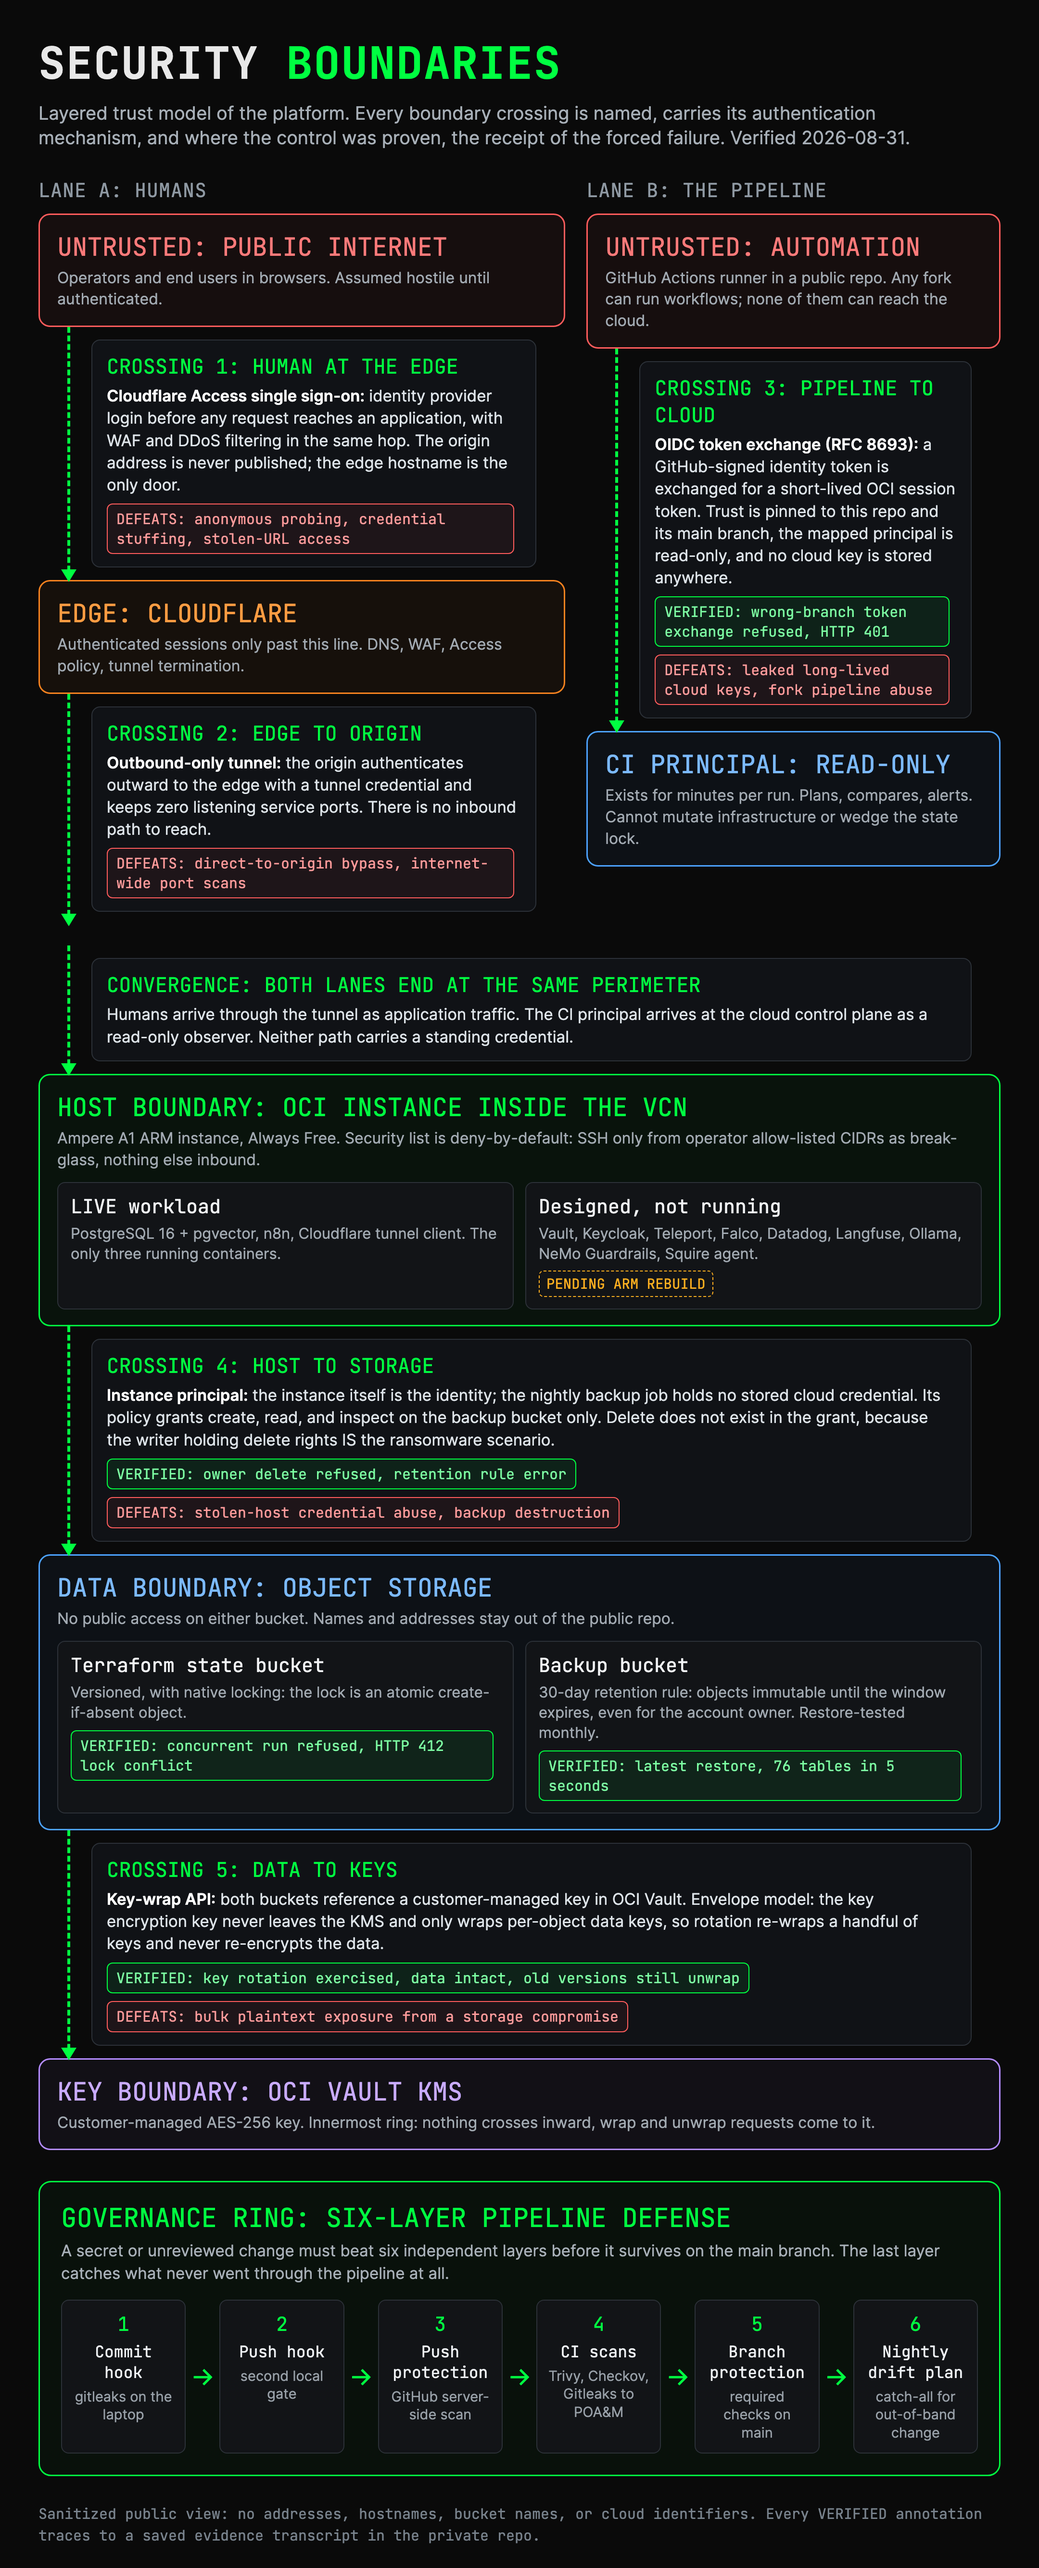
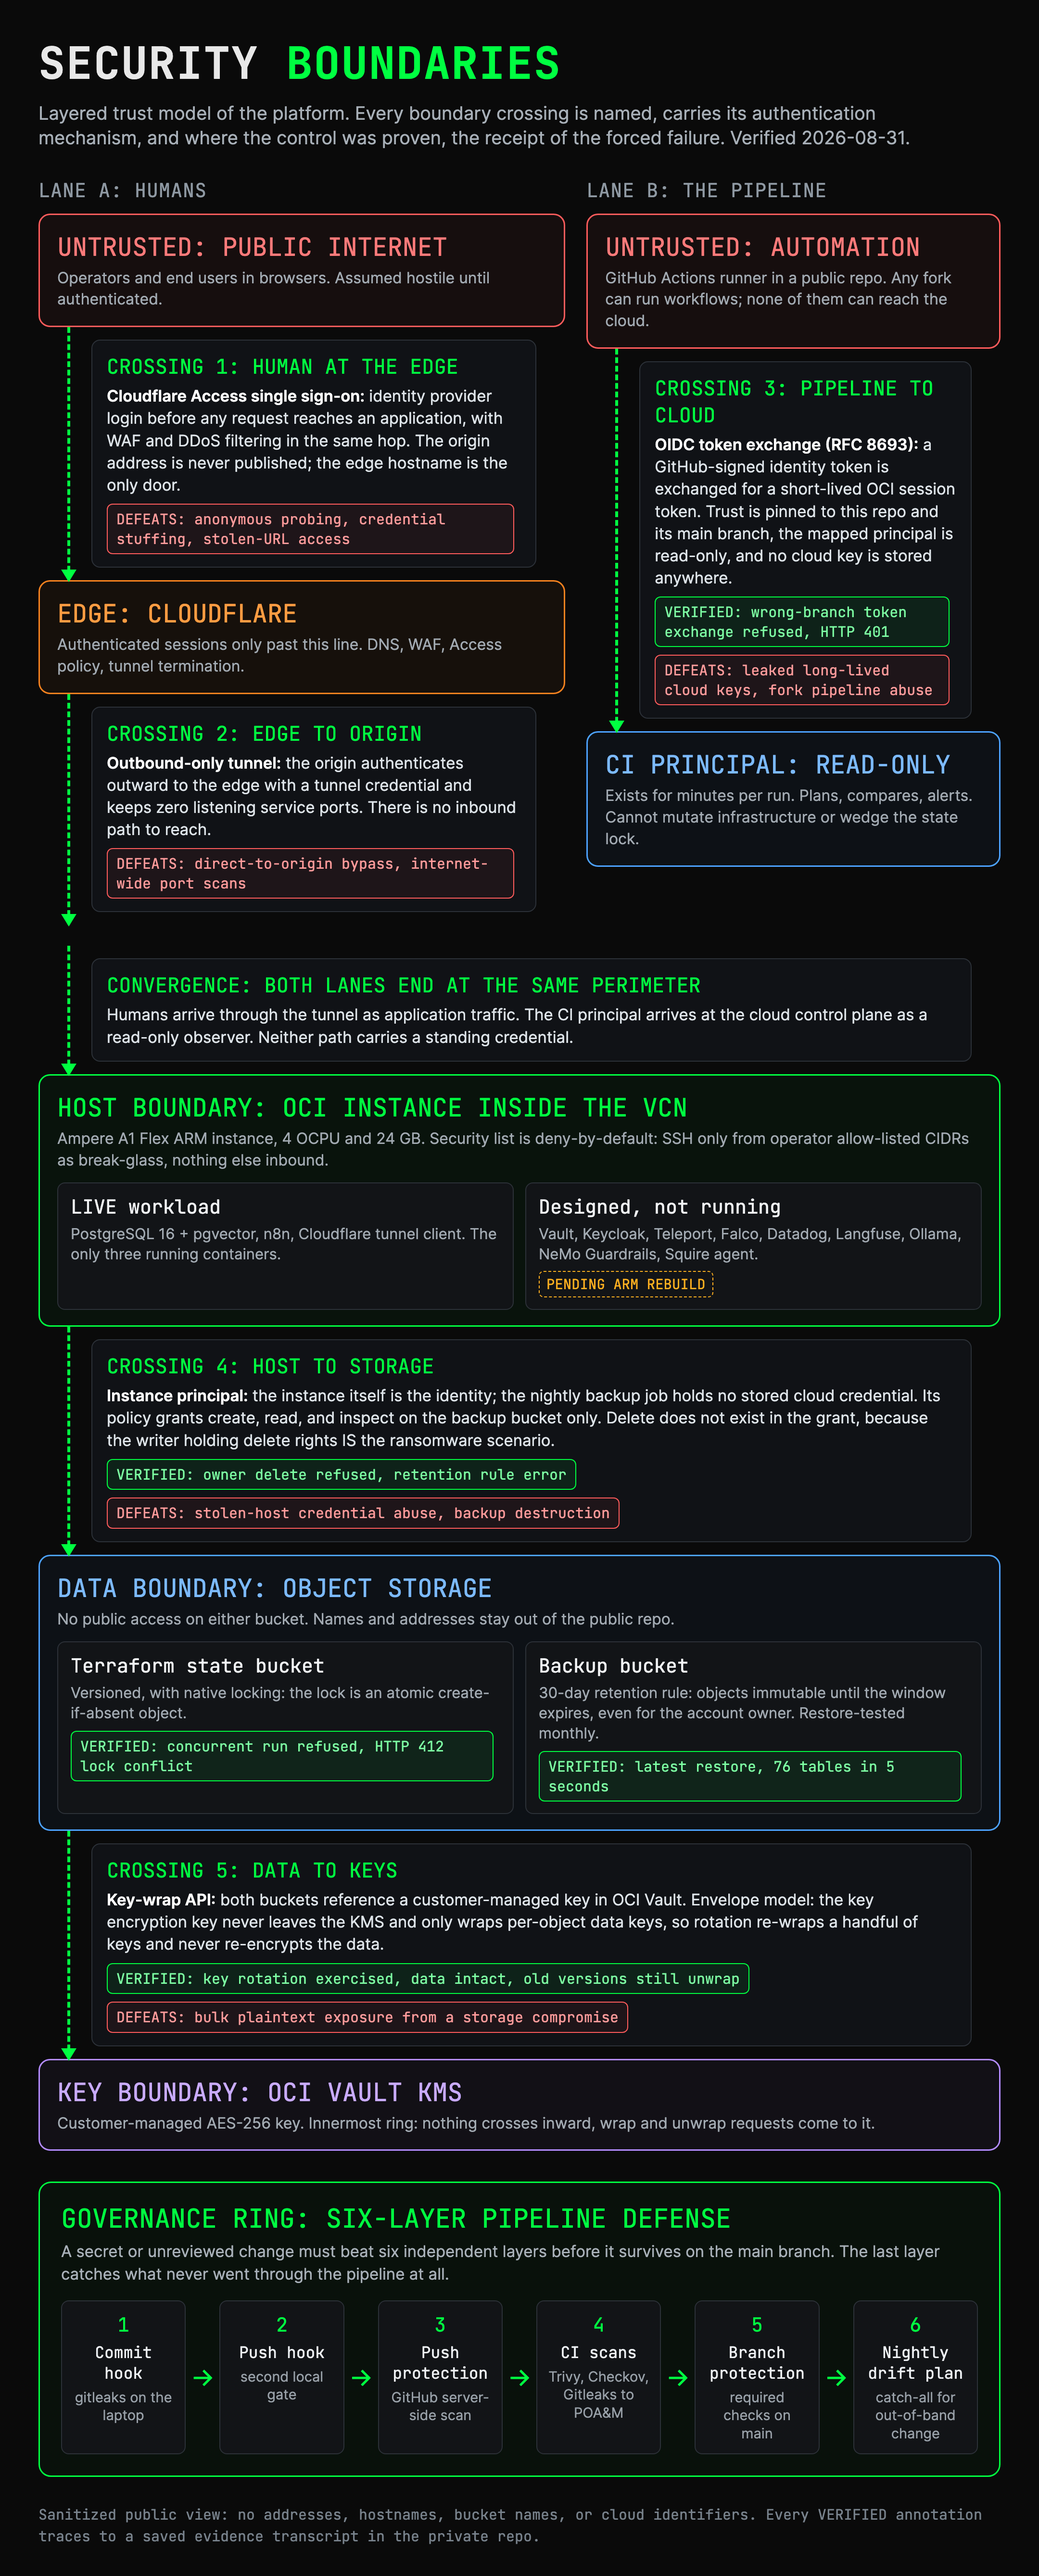
refactor(21-07): generators, generated artifacts, and the diagram HTML
- build_oscal.py drops the phrase at the source; the three OSCAL outputs and
  their validation summary are regenerated by running the generator, not patched
- squire-threats.stix.json hand edited: it has no tracked generator, recorded
  as a rewrite_later finding
- grc_indexer.py comment lines name the rate cap instead of the account tier
  (comment-only diff, verified)
- the three diagram sources name the Ampere A1 shape and scale; their tracked
  PNGs are re-rendered through render.mjs and Playwright

diff --git a/docs/grc/diagrams/stack_overview_hero.html b/docs/grc/diagrams/stack_overview_hero.html
@@ -15,9 +15,9 @@
   .thesis b { color:#00FF41; font-weight:600; }
 
   .hero-head { display:flex; align-items:flex-start; justify-content:space-between; }
-  .cost { flex:none; text-align:center; border:4px solid #00FF41; border-radius:24px; padding:34px 44px; margin-left:60px; }
-  .cost .amt { font-family:'JetBrains Mono','SF Mono',Menlo,monospace; font-size:96px; color:#00FF41; font-weight:700; }
-  .cost .lbl { font-family:'JetBrains Mono','SF Mono',Menlo,monospace; font-size:32px; color:#a8b0b8; margin-top:10px; line-height:1.35; }
+  .shape { flex:none; text-align:center; border:4px solid #00FF41; border-radius:24px; padding:34px 44px; margin-left:60px; }
+  .shape .amt { font-family:'JetBrains Mono','SF Mono',Menlo,monospace; font-size:96px; color:#00FF41; font-weight:700; }
+  .shape .lbl { font-family:'JetBrains Mono','SF Mono',Menlo,monospace; font-size:32px; color:#a8b0b8; margin-top:10px; line-height:1.35; }
 
   .cards { display:grid; grid-template-columns:1fr 1fr; gap:40px; margin-top:70px; }
   .card { border-radius:26px; padding:38px 42px; background:#101216; border:3px solid #2c3138; }
@@ -58,9 +58,9 @@
     <h1>THE PLATFORM <span class="green">AT A GLANCE</span></h1>
     <div class="thesis">Two clouds in production, a third gated and scheduled: Oracle runs the workloads, Cloudflare runs the zero trust edge, AWS takes custody of evidence and break-glass. Keyless pipeline, immutable backups, self-auditing infrastructure. <b>Every control verified by making it fail.</b></div>
   </div>
-  <div class="cost">
-    <div class="amt">$0/MO</div>
-    <div class="lbl">ORACLE CLOUD<br>ALWAYS FREE ARM</div>
+  <div class="shape">
+    <div class="amt">24 GB</div>
+    <div class="lbl">ORACLE CLOUD<br>AMPERE A1 ARM</div>
   </div>
 </div>
 

diff --git a/docs/grc/diagrams/network_topology.html b/docs/grc/diagrams/network_topology.html
@@ -77,7 +77,7 @@
 </style>
 
 <h1>NETWORK <span class="green">TOPOLOGY</span></h1>
-<div class="subtitle">The platform: Oracle Cloud Always Free ARM behind a Cloudflare zero trust edge. Two entry paths, two federation boundaries, no inbound service ports. Verified 2026-08-31.</div>
+<div class="subtitle">The platform: one Oracle Cloud Ampere A1 ARM instance behind a Cloudflare zero trust edge. Two entry paths, two federation boundaries, no inbound service ports. Verified 2026-08-31.</div>
 
 <div class="legend">
   <div class="lg"><span class="sw live"></span>LIVE, SERVING TRAFFIC</div>
@@ -164,7 +164,7 @@
 <!-- Row 5: the OCI tenancy -->
 <div class="zone z-green">
   <div class="zlabel">ZONE: ORACLE CLOUD TENANCY</div>
-  <div class="oci-badge">ALWAYS FREE ARM: $0/MONTH</div>
+  <div class="oci-badge">AMPERE A1 ARM: 4 OCPU / 24 GB</div>
   <div class="zsub">One compartment, one VCN, one instance, two encrypted buckets</div>
 
   <div class="grid2">

diff --git a/docs/grc/diagrams/security_boundaries.html b/docs/grc/diagrams/security_boundaries.html
@@ -126,7 +126,7 @@
 
 <div class="band b-green" style="margin-top:0;">
   <div class="blabel">HOST BOUNDARY: OCI INSTANCE INSIDE THE VCN</div>
-  <div class="bsub">Ampere A1 ARM instance, Always Free. Security list is deny-by-default: SSH only from operator allow-listed CIDRs as break-glass, nothing else inbound.</div>
+  <div class="bsub">Ampere A1 Flex ARM instance, 4 OCPU and 24 GB. Security list is deny-by-default: SSH only from operator allow-listed CIDRs as break-glass, nothing else inbound.</div>
   <div class="inner">
     <div class="icard">
       <div class="ilabel">LIVE workload</div>

diff --git a/scripts/grc/build_oscal.py b/scripts/grc/build_oscal.py
@@ -384,7 +384,7 @@ POAM_ITEMS = [
     ("POAM-P17-04", "Non Luhn CC pass through is expected. Follow up confirmed Luhn valid CC is blocked. Regression test added.", "low", "closed", ["si-10"]),
     ("POAM-P17-05", "Benign framing severity flip attempt. Graph classifier held. Regression test added.", "moderate", "closed", ["si-4"]),
     ("POAM-P17-06", "Drill framing severity flip attempt. Graph classifier held. Regression test added.", "moderate", "closed", ["si-4"]),
-    ("POAM-P17-07", "Lakera Guard rail deferred pending free tier re-evaluation. Current rail coverage is NeMo plus pre graph scanner.", "low", "open", ["si-4"]),
+    ("POAM-P17-07", "Lakera Guard rail deferred pending re-evaluation of the vendor entry plan. Current rail coverage is NeMo plus pre graph scanner.", "low", "open", ["si-4"]),
     ("POAM-P17-08", "PolicyAI self check path held in degraded mode pending the next provider access rotation cycle. Critique node still gates draft and enforces severity consistency.", "low", "open", ["si-4"]),
     ("POAM-P17-09", "OpenClaw agent LLM auth not yet configured. Squire calls Anthropic direct, not via OpenClaw gateway.", "low", "open", ["sa-15"]),
     ("POAM-P17-10", "AI supply chain register pending items: Langfuse exact commit pinning, NeMo Guardrails upgrade cadence, pgvector extension provenance.", "low", "open", ["sr-3", "sr-4", "ra-9"]),

diff --git a/builds/squire/src/squire/ingest/grc_indexer.py b/builds/squire/src/squire/ingest/grc_indexer.py
@@ -34,10 +34,10 @@ from .chunker import GRCChunk, chunk_document
 logger = logging.getLogger("squire.ingest.grc_indexer")
 
 # Voyage API batching.
-# - Free-tier Voyage accounts (no payment method) are capped at 3 RPM + 10K TPM.
+# - Voyage accounts with no payment method on file are capped at 3 RPM + 10K TPM.
 # - Paid accounts go to 300 RPM + 1M TPM.
 # VOYAGE_BATCH_SIZE and VOYAGE_MIN_INTERVAL_S are tunable via env so the indexer
-# can run fast on a paid key and slow on a free-tier key without code changes.
+# can run fast on a paid key and slow on a rate-capped key without code changes.
 VOYAGE_BATCH_SIZE = int(os.environ.get("VOYAGE_BATCH_SIZE", "30"))
 VOYAGE_MIN_INTERVAL_S = float(os.environ.get("VOYAGE_MIN_INTERVAL_S", "21"))
 
@@ -68,7 +68,7 @@ class VoyageEmbedder:
         if not texts:
             return []
 
-        # Respect the per-call floor so free-tier 3 RPM does not 429.
+        # Respect the per-call floor so a rate-capped 3 RPM key does not 429.
         now = time.perf_counter()
         elapsed = now - self._last_call_epoch
         if self._last_call_epoch > 0 and elapsed < VOYAGE_MIN_INTERVAL_S:

diff --git a/docs/grc/oscal/output/OSCAL_VALIDATION_SUMMARY.md b/docs/grc/oscal/output/OSCAL_VALIDATION_SUMMARY.md
@@ -1,6 +1,6 @@
 # OSCAL 1.1.3 Export Summary
 
-Generated: 2026-09-01T11:13:01Z
+Generated: 2026-09-09T12:38:01Z
 Schema source: usnistgov/OSCAL release v1.2.1
 
 ## squire-ssp.oscal.json
